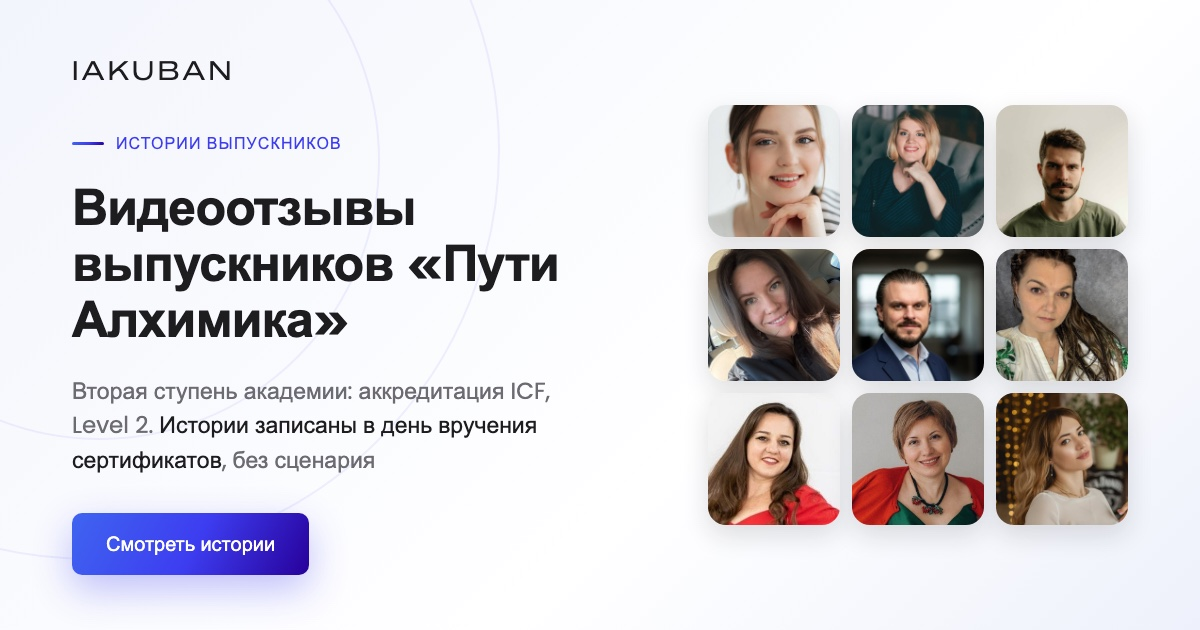
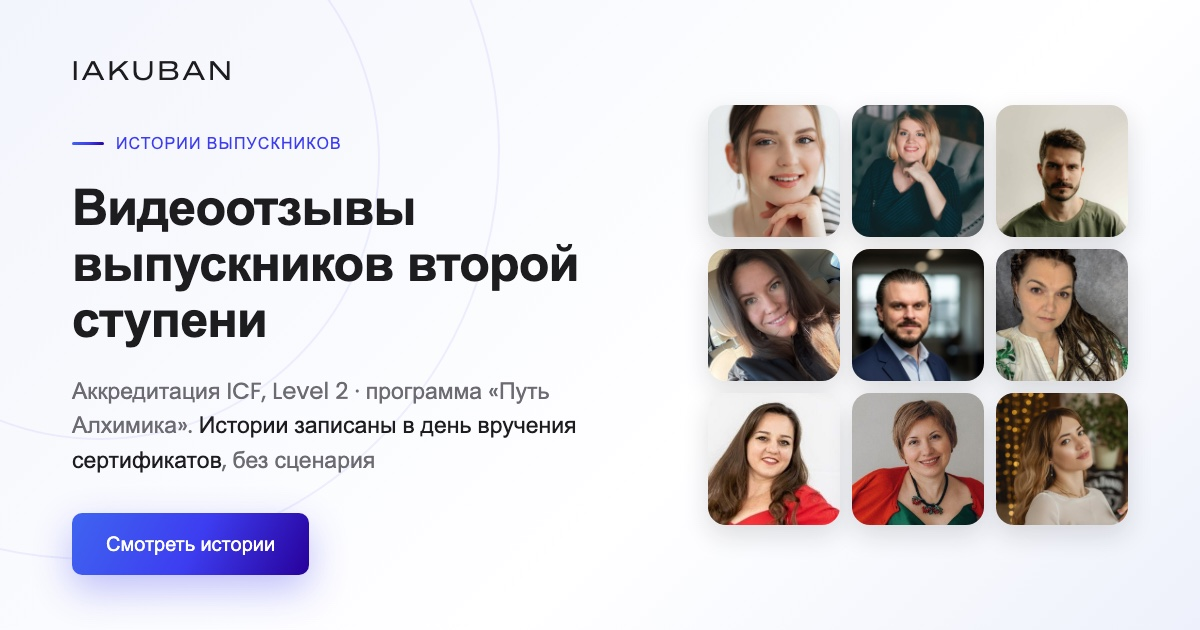
Уровень ведущим, имя программы мелко (ICF-нейминг): H1, title/og, кнопки, FAQ, OG

diff --git a/index.html b/index.html
@@ -85,23 +85,24 @@ document.addEventListener("DOMContentLoaded", function(event) {
   (window,document,"script","https://mc.yandex.ru/metrika/tag.js","ym");
   ym(109783359,"init",{clickmap:true,trackLinks:true,accurateTrackBounce:true,webvisor:false});
 </script>
-<title>Отзывы о «Пути Алхимика» академии Алексея Якубана: 14 видео выпускников</title>
-<meta name="description" content="14 видеоисторий выпускников «Пути Алхимика», второй ступени академии Алексея Якубана (аккредитация ICF, Level 2). Записаны на выпускном без сценария, плюс кейсы «было и стало».">
-<meta property="og:title" content="Отзывы о «Пути Алхимика»: видео выпускников академии Алексея Якубана">
-<meta property="og:description" content="14 видеоисторий выпускников второй ступени академии коучинга Алексея Якубана (аккредитация ICF, Level 2), записанных в день вручения сертификатов. Кейсы «было и стало» и как проверить академию.">
+<title>Отзывы выпускников: аккредитованная ICF программа, Level 2. Академия Алексея Якубана</title>
+<meta name="description" content="14 видеоисторий выпускников второй ступени академии Алексея Якубана: аккредитованная ICF программа обучения (уровень Level 2), программа «Путь Алхимика». Записаны на выпускном без сценария, плюс кейсы «было и стало».">
+<meta property="og:title" content="Отзывы выпускников: аккредитованная ICF программа, Level 2. Академия Алексея Якубана">
+<meta property="og:description" content="14 видеоисторий выпускников второй ступени академии коучинга Алексея Якубана: аккредитованная ICF программа обучения (уровень Level 2), записи в день вручения сертификатов. Кейсы «было и стало» и как проверить академию.">
 <meta property="og:site_name" content="Iakuban Coaching Academy">
 <meta property="og:type" content="website">
 <meta property="og:url" content="https://iakuban.com/reviews/level-2/">
 <meta property="og:locale" content="ru_RU">
-<meta property="og:image" content="https://iakuban.com/reviews/level-2/assets/og.jpg">
+<meta property="og:image" content="https://iakuban.com/reviews/level-2/assets/og.jpg?v=20261029s">
 <meta property="og:image:width" content="1200">
 <meta property="og:image:height" content="630">
 <meta property="og:image:type" content="image/jpeg">
 <meta name="twitter:card" content="summary_large_image">
-<meta name="twitter:image" content="https://iakuban.com/reviews/level-2/assets/og.jpg">
+<meta name="twitter:title" content="Отзывы выпускников: аккредитованная ICF программа, Level 2. Академия Алексея Якубана">
+<meta name="twitter:image" content="https://iakuban.com/reviews/level-2/assets/og.jpg?v=20261029s">
 <!-- JSONLD:START -->
 <script type="application/ld+json">
-{"@context":"https://schema.org","@graph":[{"@type":"CollectionPage","@id":"https://iakuban.com/reviews/level-2/#webpage","name":"Отзывы об академии Алексея Якубана: видеоотзывы выпускников программы «Путь Алхимика» (аккредитация ICF, Level 2)","description":"Отзывы выпускников «Пути Алхимика», второй ступени академии коучинга Алексея Якубана: 14 видеоисторий, записанных в день вручения сертификатов, без сценария.","url":"https://iakuban.com/reviews/level-2/","inLanguage":"ru","datePublished":"2026-10-29","about":{"@id":"https://iakuban.com/#organization"},"publisher":{"@type":"EducationalOrganization","@id":"https://iakuban.com/#organization","name":"Iakuban Coaching Academy","alternateName":["Академия коучинга Алексея Якубана","Академия Алексея Якубана","Академия Якубана","IAKUBAN COACHING ACADEMY S.L."],"url":"https://iakuban.com","logo":"https://iakuban.com/logo-512.png","sameAs":["https://www.youtube.com/@iakuban","https://t.me/iakuban","https://yandex.ru/maps/org/86349660849/"],"founder":{"@type":"Person","@id":"https://iakuban.com/#person","name":"Алексей Якубан","alternateName":"Aleksei Iakuban","description":"Основатель Iakuban Coaching Academy, коуч PCC ICF, 2 500+ часов коучинговой практики"}},"isPartOf":{"@type":"WebSite","@id":"https://iakuban.com/#website","name":"Iakuban Coaching Academy","url":"https://iakuban.com"},"mainEntity":{"@type":"ItemList","numberOfItems":14,"itemListElement":[{"@type":"ListItem","position":1,"item":{"@type":"VideoObject","name":"Видеоотзыв: Лейсан Ахметшина","description":"Я вообще влюбилась в коучинг. И, знаете, благодарность Алексею и Саше за то, что они показали, что коучинг — это не техника, а способ быть человеком.","thumbnailUrl":"https://iakuban.com/reviews/level-2/assets/posters/l2p1_01_leysan_akhmetshina.jpg","uploadDate":"2026-10-29T12:00:00+01:00","duration":"PT1M55S","inLanguage":"ru","embedUrl":"https://kinescope.io/embed/sRcxjx2dXFTxGQSNhUuYW6"}},{"@type":"ListItem","position":2,"item":{"@type":"VideoObject","name":"Видеоотзыв: Евгения Барченкова","description":"Каждый внёс какой-то свой вклад и повлиял на меня, на моё развитие, на мой рост.","thumbnailUrl":"https://iakuban.com/reviews/level-2/assets/posters/l2p1_02_evgeniya_barchenkova.jpg","uploadDate":"2026-10-29T12:00:00+01:00","duration":"PT0M51S","inLanguage":"ru","embedUrl":"https://kinescope.io/embed/ffWUjHFBeVTWVqZ4otSvVE"}},{"@type":"ListItem","position":3,"item":{"@type":"VideoObject","name":"Видеоотзыв: Марина Дорошко","description":"Я, как мне кажется, была немножко не готова, но я решилась, и вот иду этот путь, и понимаю, чувствую, вижу, что это только начало.","thumbnailUrl":"https://iakuban.com/reviews/level-2/assets/posters/l2p1_03_marina_doroshko.jpg","uploadDate":"2026-10-29T12:00:00+01:00","duration":"PT1M10S","inLanguage":"ru","embedUrl":"https://kinescope.io/embed/be6gRR8GWBTCNFCi1PbAZC"}},{"@type":"ListItem","position":4,"item":{"@type":"VideoObject","name":"Видеоотзыв: Виктория Довгаль","description":"Это тоже результат коучинга, который меня научил слушать свою интуицию, прислушиваться к своим желаниям, прислушиваться к тому, чего я хочу на самом деле.","thumbnailUrl":"https://iakuban.com/reviews/level-2/assets/posters/l2p1_04_viktoriya_dovgal.jpg","uploadDate":"2026-10-29T12:00:00+01:00","duration":"PT2M11S","inLanguage":"ru","embedUrl":"https://kinescope.io/embed/mSsGLLkBUPy3fr2LqpPSdx"}},{"@type":"ListItem","position":5,"item":{"@type":"VideoObject","name":"Видеоотзыв: Ольга Гаврилюк-Пыныло","description":"Я иду этим путём и ищу вот эти алмазы, драгоценные камни, как в других, так и в себе.","thumbnailUrl":"https://iakuban.com/reviews/level-2/assets/posters/l2p1_05_olga_gavrilyuk_pynylo.jpg","uploadDate":"2026-10-29T12:00:00+01:00","duration":"PT2M13S","inLanguage":"ru","embedUrl":"https://kinescope.io/embed/0VkEHYJLEoZz4xSP2TuoN5"}},{"@type":"ListItem","position":6,"item":{"@type":"VideoObject","name":"Видеоотзыв: Полина Карташова","description":"Заходила я в программу Level 1 и в Level 2, когда ещё не понимала, как мне выразить свой эмоциональный стиль в работе коучем и не нарушить коуч-позицию. А вышла я с результатом, когда я могу в сессии и шутить, и поддерживать клиента, и быть эмоциональной.","thumbnailUrl":"https://iakuban.com/reviews/level-2/assets/posters/l2p1_06_polina_kartashova.jpg","uploadDate":"2026-10-29T12:00:00+01:00","duration":"PT3M2S","inLanguage":"ru","embedUrl":"https://kinescope.io/embed/o18QSVcCS1KtQQea7jBj2Z"}},{"@type":"ListItem","position":7,"item":{"@type":"VideoObject","name":"Видеоотзыв: Мария Кокоурова","description":"Я почувствовала какое-то единение нашего потока, когда у меня появилось слово «наши».","thumbnailUrl":"https://iakuban.com/reviews/level-2/assets/posters/l2p1_07_mariya_kokourova.jpg","uploadDate":"2026-10-29T12:00:00+01:00","duration":"PT2M45S","inLanguage":"ru","embedUrl":"https://kinescope.io/embed/prWgx2dHupH6i3MVhtKSwS"}},{"@type":"ListItem","position":8,"item":{"@type":"VideoObject","name":"Видеоотзыв: Андрей Коновалов","description":"Я себя чувствую на своём месте, поэтому я спокойный. И вот именно обучение показало мне, где моё место.","thumbnailUrl":"https://iakuban.com/reviews/level-2/assets/posters/l2p1_08_andrey_konovalov.jpg","uploadDate":"2026-10-29T12:00:00+01:00","duration":"PT0M54S","inLanguage":"ru","embedUrl":"https://kinescope.io/embed/hXuEVxYmpbzLaxnRrBBofh"}},{"@type":"ListItem","position":9,"item":{"@type":"VideoObject","name":"Видеоотзыв: Катерина Куртева","description":"То, что начиналось как… лёгкая прогулка, уже заканчивается как большим приключением.","thumbnailUrl":"https://iakuban.com/reviews/level-2/assets/posters/l2p1_09_katerina_kurteva.jpg","uploadDate":"2026-10-29T12:00:00+01:00","duration":"PT1M35S","inLanguage":"ru","embedUrl":"https://kinescope.io/embed/sFuV8sbNWQVYgxnYqtneZF"}},{"@type":"ListItem","position":10,"item":{"@type":"VideoObject","name":"Видеоотзыв: Дмитрий Мелихов","description":"Всё вот это поле, оно точно позволяет быть собой, быть разным, примерять какие-то другие роли.","thumbnailUrl":"https://iakuban.com/reviews/level-2/assets/posters/l2p1_10_dmitriy_melikhov.jpg","uploadDate":"2026-10-29T12:00:00+01:00","duration":"PT1M32S","inLanguage":"ru","embedUrl":"https://kinescope.io/embed/dEjqxtLhacY3aS8V9LrAhv"}},{"@type":"ListItem","position":11,"item":{"@type":"VideoObject","name":"Видеоотзыв: Екатерина Снеткова","description":"Мне нужно было преодолеть внутри себя какие-то преграды ролей. …И я благодарю всех за поле, за то, что вы и мы вместе здесь всё создаём.","thumbnailUrl":"https://iakuban.com/reviews/level-2/assets/posters/l2p1_11_ekaterina_snetkova.jpg","uploadDate":"2026-10-29T12:00:00+01:00","duration":"PT0M57S","inLanguage":"ru","embedUrl":"https://kinescope.io/embed/prbuM16zQWjLmJ8Vudhfvd"}},{"@type":"ListItem","position":12,"item":{"@type":"VideoObject","name":"Видеоотзыв: Ольга Тимонина","description":"Ментор сказал: у тебя уже есть это мышление уровня PCC, просто присвой себе его. И вот я его присваиваю.","thumbnailUrl":"https://iakuban.com/reviews/level-2/assets/posters/l2p1_12_olga_timonina.jpg","uploadDate":"2026-10-29T12:00:00+01:00","duration":"PT1M14S","inLanguage":"ru","embedUrl":"https://kinescope.io/embed/dEXdi38LeKgUkqes1X3NNW"}},{"@type":"ListItem","position":13,"item":{"@type":"VideoObject","name":"Видеоотзыв: Екатерина Волобуева","description":"Я поняла, что на Level 2… лучше познакомилась с собой.","thumbnailUrl":"https://iakuban.com/reviews/level-2/assets/posters/l2p1_13_ekaterina_volobueva.jpg","uploadDate":"2026-10-29T12:00:00+01:00","duration":"PT2M13S","inLanguage":"ru","embedUrl":"https://kinescope.io/embed/9kNCQTL2kAWP7tirkddzhZ"}},{"@type":"ListItem","position":14,"item":{"@type":"VideoObject","name":"Видеоотзыв: Ольга Йылмаз","description":"Благодарю безумно, безмерно на всю жизнь Сашу, которая сказала, что в этом курсе можно уже перестать прятать себя.","thumbnailUrl":"https://iakuban.com/reviews/level-2/assets/posters/l2p1_14_olga_yilmaz.jpg","uploadDate":"2026-10-29T12:00:00+01:00","duration":"PT2M9S","inLanguage":"ru","embedUrl":"https://kinescope.io/embed/n5kvrTuW4vTEVGJeq3Vq3D"}}]},"dateModified":"2026-10-29"},{"@type":"FAQPage","@id":"https://iakuban.com/reviews/level-2/#faq","url":"https://iakuban.com/reviews/level-2/#faq","name":"Отзывы о «Пути Алхимика»: вопросы и ответы","inLanguage":"ru","isPartOf":{"@id":"https://iakuban.com/reviews/level-2/#webpage"},"mainEntity":[{"@type":"Question","name":"Кто записал эти видео и настоящие ли это люди?","acceptedAnswer":{"@type":"Answer","text":"Это выпускники первого потока программы «Путь Алхимика» (аккредитация ICF, Level 2), под своими именами. Ролики вырезаны из записи выпускного в Zoom 29 октября 2026 года: каждый говорил в момент вручения сертификата, сценария не было. В начале встречи Алексей Якубан спросил у группы разрешения взять куски записи на сайт, возражений не было. Мы ничего не переозвучивали и не дописывали, убрали только реплики ведущих и пару отступлений не по теме. Попросит кто-то из выпускников убрать своё видео, уберём сразу."}},{"@type":"Question","name":"Здесь все выпускники потока или только довольные?","acceptedAnswer":{"@type":"Answer","text":"Здесь 14 видеоотзывов от всех, кто получал сертификат в эфире. Одна выпускница получила его заочно, в записи её нет. Неудобные места мы не вырезали: в роликах есть и «жуткий кризис», и признание, что на подготовке ничего не получалось. Текстовые кейсы «было и стало» взяты из тех же видео, без добавлений."}},{"@type":"Question","name":"Чем «Путь Алхимика» отличается от первой ступени?","acceptedAnswer":{"@type":"Answer","text":"«Магия и наука коучинга» учит основам и аккредитована ICF на уровне Level 1. «Путь Алхимика» идёт дальше: 126 часов за семь месяцев, все занятия вживую, менторинг и итоговый ассессмент. Программа аккредитована ICF на уровне Level 2 и готовит к заявке на квалификацию PCC. Запись через собеседование. Отзывы о первой ступени собраны на <a href=\"https://iakuban.com/reviews/level-1/\">отдельной странице</a>."}},{"@type":"Question","name":"Как проверить, что программы академии аккредитованы ICF?","acceptedAnswer":{"@type":"Answer","text":"В публичном реестре ICF, без нашего участия. На сайте федерации откройте Education Search Service и введите «Iakuban» в поле Accredited Organization, реестр покажет программы академии. «Магия и наука коучинга» аккредитована ICF на уровне Level 1 (75 часов) до 31 июля 2028 года, «Путь Алхимика» на уровне Level 2 (126 часов) до 31 июля 2029 года. Реестр: <a href=\"https://apps.coachingfederation.org/eweb/DynamicPage.aspx?webcode=ESS\">Education Search Service</a>."}}]}]}
+{"@context":"https://schema.org","@graph":[{"@type":"CollectionPage","@id":"https://iakuban.com/reviews/level-2/#webpage","name":"Отзывы выпускников: аккредитованная ICF программа, Level 2. Академия Алексея Якубана","description":"Отзывы выпускников второй ступени академии коучинга Алексея Якубана (аккредитованная ICF программа обучения, уровень Level 2, программа «Путь Алхимика»): 14 видеоисторий, записанных в день вручения сертификатов, без сценария.","url":"https://iakuban.com/reviews/level-2/","inLanguage":"ru","datePublished":"2026-10-29","about":{"@id":"https://iakuban.com/#organization"},"publisher":{"@type":"EducationalOrganization","@id":"https://iakuban.com/#organization","name":"Iakuban Coaching Academy","alternateName":["Академия коучинга Алексея Якубана","Академия Алексея Якубана","Академия Якубана","IAKUBAN COACHING ACADEMY S.L."],"url":"https://iakuban.com","logo":"https://iakuban.com/logo-512.png","sameAs":["https://www.youtube.com/@iakuban","https://t.me/iakuban","https://yandex.ru/maps/org/86349660849/"],"founder":{"@type":"Person","@id":"https://iakuban.com/#person","name":"Алексей Якубан","alternateName":"Aleksei Iakuban","description":"Основатель Iakuban Coaching Academy, коуч PCC ICF, 2 500+ часов коучинговой практики"}},"isPartOf":{"@type":"WebSite","@id":"https://iakuban.com/#website","name":"Iakuban Coaching Academy","url":"https://iakuban.com"},"mainEntity":{"@type":"ItemList","numberOfItems":14,"itemListElement":[{"@type":"ListItem","position":1,"item":{"@type":"VideoObject","name":"Видеоотзыв: Лейсан Ахметшина","description":"Я вообще влюбилась в коучинг. И, знаете, благодарность Алексею и Саше за то, что они показали, что коучинг — это не техника, а способ быть человеком.","thumbnailUrl":"https://iakuban.com/reviews/level-2/assets/posters/l2p1_01_leysan_akhmetshina.jpg","uploadDate":"2026-10-29T12:00:00+01:00","duration":"PT1M55S","inLanguage":"ru","embedUrl":"https://kinescope.io/embed/sRcxjx2dXFTxGQSNhUuYW6"}},{"@type":"ListItem","position":2,"item":{"@type":"VideoObject","name":"Видеоотзыв: Евгения Барченкова","description":"Каждый внёс какой-то свой вклад и повлиял на меня, на моё развитие, на мой рост.","thumbnailUrl":"https://iakuban.com/reviews/level-2/assets/posters/l2p1_02_evgeniya_barchenkova.jpg","uploadDate":"2026-10-29T12:00:00+01:00","duration":"PT0M51S","inLanguage":"ru","embedUrl":"https://kinescope.io/embed/ffWUjHFBeVTWVqZ4otSvVE"}},{"@type":"ListItem","position":3,"item":{"@type":"VideoObject","name":"Видеоотзыв: Марина Дорошко","description":"Я, как мне кажется, была немножко не готова, но я решилась, и вот иду этот путь, и понимаю, чувствую, вижу, что это только начало.","thumbnailUrl":"https://iakuban.com/reviews/level-2/assets/posters/l2p1_03_marina_doroshko.jpg","uploadDate":"2026-10-29T12:00:00+01:00","duration":"PT1M10S","inLanguage":"ru","embedUrl":"https://kinescope.io/embed/be6gRR8GWBTCNFCi1PbAZC"}},{"@type":"ListItem","position":4,"item":{"@type":"VideoObject","name":"Видеоотзыв: Виктория Довгаль","description":"Это тоже результат коучинга, который меня научил слушать свою интуицию, прислушиваться к своим желаниям, прислушиваться к тому, чего я хочу на самом деле.","thumbnailUrl":"https://iakuban.com/reviews/level-2/assets/posters/l2p1_04_viktoriya_dovgal.jpg","uploadDate":"2026-10-29T12:00:00+01:00","duration":"PT2M11S","inLanguage":"ru","embedUrl":"https://kinescope.io/embed/mSsGLLkBUPy3fr2LqpPSdx"}},{"@type":"ListItem","position":5,"item":{"@type":"VideoObject","name":"Видеоотзыв: Ольга Гаврилюк-Пыныло","description":"Я иду этим путём и ищу вот эти алмазы, драгоценные камни, как в других, так и в себе.","thumbnailUrl":"https://iakuban.com/reviews/level-2/assets/posters/l2p1_05_olga_gavrilyuk_pynylo.jpg","uploadDate":"2026-10-29T12:00:00+01:00","duration":"PT2M13S","inLanguage":"ru","embedUrl":"https://kinescope.io/embed/0VkEHYJLEoZz4xSP2TuoN5"}},{"@type":"ListItem","position":6,"item":{"@type":"VideoObject","name":"Видеоотзыв: Полина Карташова","description":"Заходила я в программу Level 1 и в Level 2, когда ещё не понимала, как мне выразить свой эмоциональный стиль в работе коучем и не нарушить коуч-позицию. А вышла я с результатом, когда я могу в сессии и шутить, и поддерживать клиента, и быть эмоциональной.","thumbnailUrl":"https://iakuban.com/reviews/level-2/assets/posters/l2p1_06_polina_kartashova.jpg","uploadDate":"2026-10-29T12:00:00+01:00","duration":"PT3M2S","inLanguage":"ru","embedUrl":"https://kinescope.io/embed/o18QSVcCS1KtQQea7jBj2Z"}},{"@type":"ListItem","position":7,"item":{"@type":"VideoObject","name":"Видеоотзыв: Мария Кокоурова","description":"Я почувствовала какое-то единение нашего потока, когда у меня появилось слово «наши».","thumbnailUrl":"https://iakuban.com/reviews/level-2/assets/posters/l2p1_07_mariya_kokourova.jpg","uploadDate":"2026-10-29T12:00:00+01:00","duration":"PT2M45S","inLanguage":"ru","embedUrl":"https://kinescope.io/embed/prWgx2dHupH6i3MVhtKSwS"}},{"@type":"ListItem","position":8,"item":{"@type":"VideoObject","name":"Видеоотзыв: Андрей Коновалов","description":"Я себя чувствую на своём месте, поэтому я спокойный. И вот именно обучение показало мне, где моё место.","thumbnailUrl":"https://iakuban.com/reviews/level-2/assets/posters/l2p1_08_andrey_konovalov.jpg","uploadDate":"2026-10-29T12:00:00+01:00","duration":"PT0M54S","inLanguage":"ru","embedUrl":"https://kinescope.io/embed/hXuEVxYmpbzLaxnRrBBofh"}},{"@type":"ListItem","position":9,"item":{"@type":"VideoObject","name":"Видеоотзыв: Катерина Куртева","description":"То, что начиналось как… лёгкая прогулка, уже заканчивается как большим приключением.","thumbnailUrl":"https://iakuban.com/reviews/level-2/assets/posters/l2p1_09_katerina_kurteva.jpg","uploadDate":"2026-10-29T12:00:00+01:00","duration":"PT1M35S","inLanguage":"ru","embedUrl":"https://kinescope.io/embed/sFuV8sbNWQVYgxnYqtneZF"}},{"@type":"ListItem","position":10,"item":{"@type":"VideoObject","name":"Видеоотзыв: Дмитрий Мелихов","description":"Всё вот это поле, оно точно позволяет быть собой, быть разным, примерять какие-то другие роли.","thumbnailUrl":"https://iakuban.com/reviews/level-2/assets/posters/l2p1_10_dmitriy_melikhov.jpg","uploadDate":"2026-10-29T12:00:00+01:00","duration":"PT1M32S","inLanguage":"ru","embedUrl":"https://kinescope.io/embed/dEjqxtLhacY3aS8V9LrAhv"}},{"@type":"ListItem","position":11,"item":{"@type":"VideoObject","name":"Видеоотзыв: Екатерина Снеткова","description":"Мне нужно было преодолеть внутри себя какие-то преграды ролей. …И я благодарю всех за поле, за то, что вы и мы вместе здесь всё создаём.","thumbnailUrl":"https://iakuban.com/reviews/level-2/assets/posters/l2p1_11_ekaterina_snetkova.jpg","uploadDate":"2026-10-29T12:00:00+01:00","duration":"PT0M57S","inLanguage":"ru","embedUrl":"https://kinescope.io/embed/prbuM16zQWjLmJ8Vudhfvd"}},{"@type":"ListItem","position":12,"item":{"@type":"VideoObject","name":"Видеоотзыв: Ольга Тимонина","description":"Ментор сказал: у тебя уже есть это мышление уровня PCC, просто присвой себе его. И вот я его присваиваю.","thumbnailUrl":"https://iakuban.com/reviews/level-2/assets/posters/l2p1_12_olga_timonina.jpg","uploadDate":"2026-10-29T12:00:00+01:00","duration":"PT1M14S","inLanguage":"ru","embedUrl":"https://kinescope.io/embed/dEXdi38LeKgUkqes1X3NNW"}},{"@type":"ListItem","position":13,"item":{"@type":"VideoObject","name":"Видеоотзыв: Екатерина Волобуева","description":"Я поняла, что на Level 2… лучше познакомилась с собой.","thumbnailUrl":"https://iakuban.com/reviews/level-2/assets/posters/l2p1_13_ekaterina_volobueva.jpg","uploadDate":"2026-10-29T12:00:00+01:00","duration":"PT2M13S","inLanguage":"ru","embedUrl":"https://kinescope.io/embed/9kNCQTL2kAWP7tirkddzhZ"}},{"@type":"ListItem","position":14,"item":{"@type":"VideoObject","name":"Видеоотзыв: Ольга Йылмаз","description":"Благодарю безумно, безмерно на всю жизнь Сашу, которая сказала, что в этом курсе можно уже перестать прятать себя.","thumbnailUrl":"https://iakuban.com/reviews/level-2/assets/posters/l2p1_14_olga_yilmaz.jpg","uploadDate":"2026-10-29T12:00:00+01:00","duration":"PT2M9S","inLanguage":"ru","embedUrl":"https://kinescope.io/embed/n5kvrTuW4vTEVGJeq3Vq3D"}}]},"dateModified":"2026-10-29"},{"@type":"FAQPage","@id":"https://iakuban.com/reviews/level-2/#faq","url":"https://iakuban.com/reviews/level-2/#faq","name":"Отзывы о второй ступени: вопросы и ответы","inLanguage":"ru","isPartOf":{"@id":"https://iakuban.com/reviews/level-2/#webpage"},"mainEntity":[{"@type":"Question","name":"Кто записал эти видео и настоящие ли это люди?","acceptedAnswer":{"@type":"Answer","text":"Это выпускники первого потока второй ступени (аккредитация ICF, Level 2, программа «Путь Алхимика»), под своими именами. Ролики вырезаны из записи выпускного в Zoom 29 октября 2026 года: каждый говорил в момент вручения сертификата, сценария не было. В начале встречи Алексей Якубан спросил у группы разрешения взять куски записи на сайт, возражений не было. Мы ничего не переозвучивали и не дописывали, убрали только реплики ведущих и пару отступлений не по теме. Попросит кто-то из выпускников убрать своё видео, уберём сразу."}},{"@type":"Question","name":"Здесь все выпускники потока или только довольные?","acceptedAnswer":{"@type":"Answer","text":"Здесь 14 видеоотзывов от всех, кто получал сертификат в эфире. Одна выпускница получила его заочно, в записи её нет. Неудобные места мы не вырезали: в роликах есть и «жуткий кризис», и признание, что на подготовке ничего не получалось. Текстовые кейсы «было и стало» взяты из тех же видео, без добавлений."}},{"@type":"Question","name":"Чем вторая ступень отличается от первой?","acceptedAnswer":{"@type":"Answer","text":"Первая ступень, программа «Магия и наука коучинга», учит основам и аккредитована ICF на уровне Level 1. Вторая ступень, программа «Путь Алхимика», идёт дальше: 126 часов за семь месяцев, все занятия вживую, менторинг и итоговый ассессмент. Она аккредитована ICF на уровне Level 2 и готовит к заявке на квалификацию PCC. Запись через собеседование. Отзывы о первой ступени собраны на <a href=\"https://iakuban.com/reviews/level-1/\">отдельной странице</a>."}},{"@type":"Question","name":"Как проверить, что программы академии аккредитованы ICF?","acceptedAnswer":{"@type":"Answer","text":"В публичном реестре ICF, без нашего участия. На сайте федерации откройте Education Search Service и введите «Iakuban» в поле Accredited Organization, реестр покажет программы академии. «Магия и наука коучинга» аккредитована ICF на уровне Level 1 (75 часов) до 31 июля 2028 года, «Путь Алхимика» на уровне Level 2 (126 часов) до 31 июля 2029 года. Реестр: <a href=\"https://apps.coachingfederation.org/eweb/DynamicPage.aspx?webcode=ESS\">Education Search Service</a>."}}]}]}
 </script>
     <!-- JSONLD:END -->
 <link rel="icon" type="image/png" href="assets/favicon.png">
@@ -145,6 +146,7 @@ section{padding:clamp(72px,9vw,116px) 0}
 .hero .eyebrow{font-size:14px;letter-spacing:.14em;text-transform:uppercase;color:var(--ink2);margin-bottom:20px;font-weight:500}
 .hero h1{font-size:clamp(34px,3.8vw,54px);color:var(--ink);text-wrap:balance}
 .hero .sub{font-size:clamp(17px,1.9vw,21px);color:var(--ink2);margin-top:22px;max-width:560px}
+.hero .level-line{display:inline-block;margin-top:16px;padding:7px 14px;border-radius:999px;background:rgba(61,61,240,.08);color:var(--accent);font-size:clamp(14px,1.5vw,16px);font-weight:500;line-height:1.4;text-wrap:balance}
 .hero .cta-row{display:flex;gap:14px;flex-wrap:wrap;margin-top:34px}
 .hero .btn{font-size:17.5px;padding:17px 30px}
 .hero .hero-alt{margin-top:18px;font-size:15px}
@@ -659,13 +661,14 @@ footer a:hover{text-decoration:underline}
   <div class="wrap-wide hero-in">
     <div>
       <p class="eyebrow">Iakuban Coaching Academy</p>
-      <h1>Видеоотзывы выпускников «Пути Алхимика»</h1>
-      <p class="sub">Первый поток второй ступени академии Алексея Якубана получил сертификаты 29&nbsp;октября 2026 года. Программа «Путь Алхимика» аккредитована ICF на уровне Level 2. Каждое видео записано в день выпуска, без сценария.</p>
+      <h1>Видеоотзывы выпускников второй ступени</h1>
+      <p class="level-line">Аккредитация ICF, Level 2 · программа «Путь Алхимика»</p>
+      <p class="sub">Первый поток второй ступени академии Алексея Якубана получил сертификаты 29&nbsp;октября 2026 года. Каждое видео записано в день выпуска, без сценария.</p>
       <div class="cta-row">
         <a class="btn btn-primary" href="https://t.me/iakuban_team?text=%D0%97%D0%B4%D1%80%D0%B0%D0%B2%D1%81%D1%82%D0%B2%D1%83%D0%B9%D1%82%D0%B5%21%20%D0%9C%D0%BD%D0%B5%20%D0%B8%D0%BD%D1%82%D0%B5%D1%80%D0%B5%D1%81%D0%BD%D0%B0%20%D0%BF%D1%80%D0%BE%D0%B3%D1%80%D0%B0%D0%BC%D0%BC%D0%B0%20%C2%AB%D0%9F%D1%83%D1%82%D1%8C%20%D0%90%D0%BB%D1%85%D0%B8%D0%BC%D0%B8%D0%BA%D0%B0%C2%BB.%20%D0%AF%20%D1%81%20%D1%81%D0%B0%D0%B9%D1%82%D0%B0" target="_blank" rel="noopener">Записаться на собеседование</a>
-        <a class="btn btn-ghost-dark" href="https://iakuban.com/icf-level-2/">О программе «Путь Алхимика»</a>
+        <a class="btn btn-ghost-dark" href="https://iakuban.com/icf-level-2/">О второй ступени обучения →</a>
       </div>
-      <p class="hero-alt"><a href="https://iakuban.com/reviews/level-1/">Отзывы о первой ступени, «Магия и наука коучинга» →</a></p>
+      <p class="hero-alt"><a href="https://iakuban.com/reviews/level-1/">Отзывы о первой ступени (Level 1) →</a></p>
     </div>
     <div class="mosaic" aria-label="Выпускники программы — нажмите, чтобы посмотреть видеоотзыв">
     <!-- MOSAIC:START -->
@@ -803,14 +806,14 @@ footer a:hover{text-decoration:underline}
   <div class="ccard-top"><img src="assets/people/l2p1_03_marina_doroshko.jpg?v=1793305824" alt="Марина Дорошко" width="120" height="120" loading="lazy"><div><h3 class="cname"><a class="coach-name" href="/doroshko" data-coach-link="doroshko">Марина Дорошко</a></h3><div class="crole">выпускница первого потока</div><a class="coach-tag" href="/doroshko" data-coach-link="doroshko" aria-label="Марина Дорошко: профиль на платформе академии"><span class="ct-long">Профиль на платформе →</span><span class="ct-short">Профиль на платформе →</span></a></div></div>
   <dl class="cab">
     <div class="row was"><dt class="sr-only">До программы</dt><dd>была немножко не готова (так ей казалось)</dd></div>
-    <div class="row now"><dt class="sr-only">После программы</dt><dd>решилась пойти на Level 2 и чувствует, что «это только начало»</dd></div>
+    <div class="row now"><dt class="sr-only">После программы</dt><dd>решилась пойти на вторую ступень и чувствует, что «это только начало»</dd></div>
   </dl>
   <button class="cvideo" data-video="https://kinescope.io/embed/be6gRR8GWBTCNFCi1PbAZC" data-name="Марина Дорошко" data-quote="«Я, как мне кажется, была немножко не готова, но я решилась, и вот иду этот путь, и понимаю, чувствую, вижу, что это только начало.»"><span class="ic" aria-hidden="true"></span>Смотреть видеоотзыв</button>
 </article>
 <article class="ccard">
   <div class="ccard-top"><img src="assets/people/l2p1_04_viktoriya_dovgal.jpg?v=1793306155" alt="Виктория Довгаль" width="120" height="120" loading="lazy"><div><h3 class="cname">Виктория Довгаль</h3><div class="crole">выпускница первого потока</div></div></div>
   <dl class="cab">
-    <div class="row was"><dt class="sr-only">До программы</dt><dd>пришла на Level 2, совсем этого не планируя</dd></div>
+    <div class="row was"><dt class="sr-only">До программы</dt><dd>пришла на вторую ступень, совсем этого не планируя</dd></div>
     <div class="row now"><dt class="sr-only">После программы</dt><dd>коучинг научил слушать интуицию и свои желания</dd></div>
   </dl>
   <button class="cvideo" data-video="https://kinescope.io/embed/mSsGLLkBUPy3fr2LqpPSdx" data-name="Виктория Довгаль" data-quote="«Это тоже результат коучинга, который меня научил слушать свою интуицию, прислушиваться к своим желаниям, прислушиваться к тому, чего я хочу на самом деле.»"><span class="ic" aria-hidden="true"></span>Смотреть видеоотзыв</button>
@@ -903,7 +906,7 @@ footer a:hover{text-decoration:underline}
 </div>
 <div class="vitem">
   <dt>Отзывы вне сайта</dt>
-  <dd>Карточка академии на Яндекс.Картах: рейтинг 4,6, пять отзывов. Анкета на b17.ru: 17 отзывов. Две статьи на vc.ru от выпускника первого потока «Магии и науки коучинга». Проверено <time datetime="2026-10-29">29 октября 2026 года</time>. Ссылки: <a href="https://yandex.ru/maps/org/86349660849/" target="_blank" rel="noopener">Яндекс.Карты</a>, <a href="https://www.b17.ru/iakuban/" target="_blank" rel="noopener">b17.ru</a>, <a href="https://vc.ru/flood/2653673" target="_blank" rel="noopener">первая статья</a>, <a href="https://vc.ru/flood/2658202" target="_blank" rel="noopener">вторая статья</a>.</dd>
+  <dd>Карточка академии на Яндекс.Картах: рейтинг 4,6, пять отзывов. Анкета на b17.ru: 17 отзывов. Две статьи на vc.ru от выпускника первой ступени (Level 1). Проверено <time datetime="2026-10-29">29 октября 2026 года</time>. Ссылки: <a href="https://yandex.ru/maps/org/86349660849/" target="_blank" rel="noopener">Яндекс.Карты</a>, <a href="https://www.b17.ru/iakuban/" target="_blank" rel="noopener">b17.ru</a>, <a href="https://vc.ru/flood/2653673" target="_blank" rel="noopener">первая статья</a>, <a href="https://vc.ru/flood/2658202" target="_blank" rel="noopener">вторая статья</a>.</dd>
 </div>
     <!-- VERIFY:END -->
       </dl>
@@ -914,22 +917,22 @@ footer a:hover{text-decoration:underline}
 <section class="faq" aria-labelledby="faq-title">
   <div class="wrap">
     <div class="sec-head reveal">
-      <h2 id="faq-title">Отзывы о «Пути Алхимика»: вопросы и ответы</h2>
+      <h2 id="faq-title">Отзывы о второй ступени: вопросы и ответы</h2>
       <p id="faq-intro">Откуда эти видео, все ли выпускники на странице и как проверить академию до собеседования.</p>
     </div>
     <div class="faq-list reveal">
     <!-- FAQ:START -->
 <details class="faq-item" id="faq-1">
   <summary><h3>Кто записал эти видео и настоящие ли это люди?</h3></summary>
-  <div class="faq-body"><p>Это выпускники первого потока программы «Путь Алхимика» (аккредитация ICF, Level 2), под своими именами. Ролики вырезаны из записи выпускного в Zoom 29 октября 2026 года: каждый говорил в момент вручения сертификата, сценария не было. В начале встречи Алексей Якубан спросил у группы разрешения взять куски записи на сайт, возражений не было. Мы ничего не переозвучивали и не дописывали, убрали только реплики ведущих и пару отступлений не по теме. Попросит кто-то из выпускников убрать своё видео, уберём сразу.</p></div>
+  <div class="faq-body"><p>Это выпускники первого потока второй ступени (аккредитация ICF, Level 2, программа «Путь Алхимика»), под своими именами. Ролики вырезаны из записи выпускного в Zoom 29 октября 2026 года: каждый говорил в момент вручения сертификата, сценария не было. В начале встречи Алексей Якубан спросил у группы разрешения взять куски записи на сайт, возражений не было. Мы ничего не переозвучивали и не дописывали, убрали только реплики ведущих и пару отступлений не по теме. Попросит кто-то из выпускников убрать своё видео, уберём сразу.</p></div>
 </details>
 <details class="faq-item" id="faq-2">
   <summary><h3>Здесь все выпускники потока или только довольные?</h3></summary>
   <div class="faq-body"><p>Здесь 14 видеоотзывов от всех, кто получал сертификат в эфире. Одна выпускница получила его заочно, в записи её нет. Неудобные места мы не вырезали: в роликах есть и «жуткий кризис», и признание, что на подготовке ничего не получалось. Текстовые кейсы «было и стало» взяты из тех же видео, без добавлений.</p></div>
 </details>
 <details class="faq-item" id="faq-3">
-  <summary><h3>Чем «Путь Алхимика» отличается от первой ступени?</h3></summary>
-  <div class="faq-body"><p>«Магия и наука коучинга» учит основам и аккредитована ICF на уровне Level 1. «Путь Алхимика» идёт дальше: 126 часов за семь месяцев, все занятия вживую, менторинг и итоговый ассессмент. Программа аккредитована ICF на уровне Level 2 и готовит к заявке на квалификацию PCC. Запись через собеседование. Отзывы о первой ступени собраны на <a href="https://iakuban.com/reviews/level-1/">отдельной странице</a>.</p></div>
+  <summary><h3>Чем вторая ступень отличается от первой?</h3></summary>
+  <div class="faq-body"><p>Первая ступень, программа «Магия и наука коучинга», учит основам и аккредитована ICF на уровне Level 1. Вторая ступень, программа «Путь Алхимика», идёт дальше: 126 часов за семь месяцев, все занятия вживую, менторинг и итоговый ассессмент. Она аккредитована ICF на уровне Level 2 и готовит к заявке на квалификацию PCC. Запись через собеседование. Отзывы о первой ступени собраны на <a href="https://iakuban.com/reviews/level-1/">отдельной странице</a>.</p></div>
 </details>
 <details class="faq-item" id="faq-4">
   <summary><h3>Как проверить, что программы академии аккредитованы ICF?</h3></summary>
@@ -943,10 +946,10 @@ footer a:hover{text-decoration:underline}
 <section class="band" aria-labelledby="band-title">
   <div class="wrap reveal">
     <h2 id="band-title">Хотите пройти этот путь?</h2>
-    <p>Программа «Путь Алхимика» (аккредитация ICF, Level 2): 126 часов за семь месяцев, все занятия вживую. Запись через собеседование, сейчас идёт набор во второй поток.</p>
+    <p>Вторая ступень обучения: 126 часов за семь месяцев, все занятия вживую. Аккредитация ICF, Level 2, программа «Путь Алхимика». Запись через собеседование, сейчас идёт набор во второй поток.</p>
     <div class="cta-row">
       <a class="btn btn-primary" href="https://t.me/iakuban_team?text=%D0%97%D0%B4%D1%80%D0%B0%D0%B2%D1%81%D1%82%D0%B2%D1%83%D0%B9%D1%82%D0%B5%21%20%D0%9C%D0%BD%D0%B5%20%D0%B8%D0%BD%D1%82%D0%B5%D1%80%D0%B5%D1%81%D0%BD%D0%B0%20%D0%BF%D1%80%D0%BE%D0%B3%D1%80%D0%B0%D0%BC%D0%BC%D0%B0%20%C2%AB%D0%9F%D1%83%D1%82%D1%8C%20%D0%90%D0%BB%D1%85%D0%B8%D0%BC%D0%B8%D0%BA%D0%B0%C2%BB.%20%D0%AF%20%D1%81%20%D1%81%D0%B0%D0%B9%D1%82%D0%B0" target="_blank" rel="noopener">Записаться на собеседование</a>
-      <a class="btn btn-ghost-dark" href="https://iakuban.com/icf-level-2/">Подробнее о программе</a>
+      <a class="btn btn-ghost-dark" href="https://iakuban.com/icf-level-2/">О второй ступени обучения →</a>
     </div>
   </div>
 </section>
@@ -974,7 +977,7 @@ footer a:hover{text-decoration:underline}
     <div class="cta-row">
       <a class="btn btn-primary" href="https://t.me/iakuban_team?text=%D0%97%D0%B4%D1%80%D0%B0%D0%B2%D1%81%D1%82%D0%B2%D1%83%D0%B9%D1%82%D0%B5%21%20%D0%9C%D0%BD%D0%B5%20%D0%B8%D0%BD%D1%82%D0%B5%D1%80%D0%B5%D1%81%D0%BD%D0%B0%20%D0%BF%D1%80%D0%BE%D0%B3%D1%80%D0%B0%D0%BC%D0%BC%D0%B0%20%C2%AB%D0%9F%D1%83%D1%82%D1%8C%20%D0%90%D0%BB%D1%85%D0%B8%D0%BC%D0%B8%D0%BA%D0%B0%C2%BB.%20%D0%AF%20%D1%81%20%D1%81%D0%B0%D0%B9%D1%82%D0%B0" target="_blank" rel="noopener">Записаться на собеседование</a>
     </div>
-    <p class="note">Это бесплатно и ни к чему не обязывает. Или изучите <a href="https://iakuban.com/icf-level-2/">страницу программы «Путь Алхимика»</a>.<br>Отзывы о первой ступени: <a href="https://iakuban.com/reviews/level-1/">«Магия и наука коучинга»</a>.</p>
+    <p class="note">Это бесплатно и ни к чему не обязывает. Или прочитайте <a href="https://iakuban.com/icf-level-2/">о второй ступени обучения</a>.<br><a href="https://iakuban.com/reviews/level-1/">Отзывы о первой ступени (Level 1) →</a></p>
   </div>
 </section>
 

diff --git a/assets/og-src.html b/assets/og-src.html
@@ -41,8 +41,8 @@
     <div class="left">
       <div class="logo">IAKUBAN</div>
       <div class="eyebrow">Истории выпускников</div>
-      <h1>Видеоотзывы выпускников «Пути Алхимика»</h1>
-      <p class="sub">Вторая ступень академии: аккредитация ICF, Level&nbsp;2. <b>Истории записаны в день вручения сертификатов</b>, без сценария</p>
+      <h1>Видеоотзывы выпускников второй ступени</h1>
+      <p class="sub">Аккредитация ICF, Level&nbsp;2 · программа «Путь Алхимика». <b>Истории записаны в день вручения сертификатов</b>, без сценария</p>
       <span class="pill">Смотреть истории</span>
     </div>
     <div class="mosaic">

diff --git a/build.py b/build.py
@@ -175,8 +175,8 @@ def jsonld(ordered, kmap, faq, ctx):
     page = {
         "@type": "CollectionPage",
         "@id": PAGE_URL + "#webpage",
-        "name": "Отзывы об академии Алексея Якубана: видеоотзывы выпускников программы «Путь Алхимика» (аккредитация ICF, Level 2)",
-        "description": f"Отзывы выпускников «Пути Алхимика», второй ступени академии коучинга Алексея Якубана: {len(ordered)} видеоисторий, записанных в день вручения сертификатов, без сценария.",
+        "name": "Отзывы выпускников: аккредитованная ICF программа, Level 2. Академия Алексея Якубана",
+        "description": f"Отзывы выпускников второй ступени академии коучинга Алексея Якубана (аккредитованная ICF программа обучения, уровень Level 2, программа «Путь Алхимика»): {len(ordered)} видеоисторий, записанных в день вручения сертификатов, без сценария.",
         "url": PAGE_URL,
         "inLanguage": "ru",
         "datePublished": PUBLISHED,
